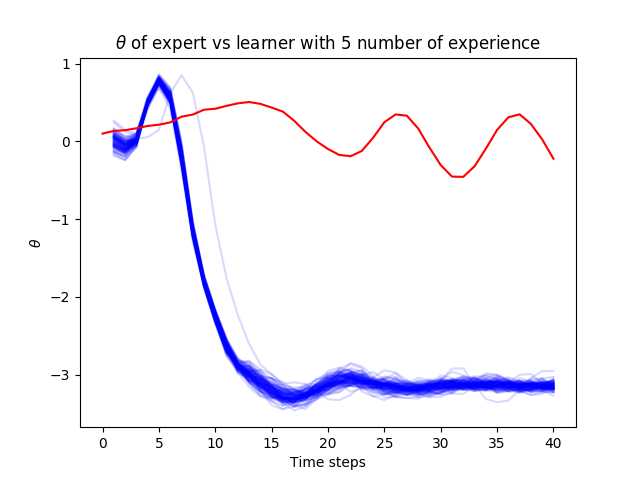
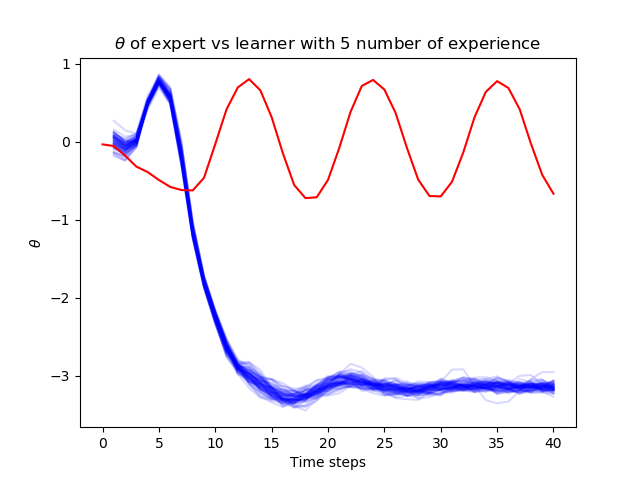
Attempt a using score funtion gradients

diff --git a/cartpole/learn.py b/cartpole/learn.py
@@ -1,8 +1,9 @@
 import numpy as np
 import torch
 import torch.distributions as trd
+import torch.nn.functional as F
 from cartpole.agent import CartPoleAgent
-from cartpole.utils import get_train_y, get_expert_data
+from cartpole.utils import get_training_data, get_expert_data, convert_to_aux_state
 from forwardmodel import ForwardModel
 from rbf_policy import RBFPolicy
 from discrimator import Discrimator
@@ -30,8 +31,9 @@ else:
 expert_samples = get_expert_data().to(device)
 
 state_dim = 4
+aux_state_dim = 5
 action_dim = 1
-policy = RBFPolicy(u_max=10, input_dim=state_dim, nbasis=10, device=device)
+policy = RBFPolicy(u_max=10, input_dim=aux_state_dim, nbasis=10, device=device)
 dt = 0.1
 time = 4
 T = int(np.ceil(4/dt))
@@ -42,21 +44,21 @@ agent = CartPoleAgent(dt=dt, time=time, policy=policy,
 with torch.no_grad():
     # Only when generating samples from GP posterior do we need the grad wrt policy parameter
     s_a_pairs, traj = agent.act()
-    init_y = get_train_y(traj)
+    init_x, init_y = get_training_data(s_a_pairs, traj)
 
-fm = ForwardModel(init_x=s_a_pairs.to(device),
-                  init_y=init_y.to(device), device=device)
+fm = ForwardModel(init_x=init_x.to(device),
+                  init_y=init_y.to(device), D=state_dim, S=aux_state_dim, F=action_dim, device=device)
 
 init_state_distn = trd.MultivariateNormal(loc=torch.zeros(
     state_dim), covariance_matrix=torch.diag(0.1**2 * torch.ones(state_dim)))
 
 disc = Discrimator(T, D=state_dim).to(device)
 
-policy_lr = 0.5
+policy_lr = 1e-2
 policy_optimizer = torch.optim.Adam(policy.parameters(), lr=policy_lr)
 disc_optimizer = torch.optim.Adam(disc.parameters())
 policy_lr_sch = torch.optim.lr_scheduler.ExponentialLR(
-    policy_optimizer, gamma=0.99)
+    policy_optimizer, gamma=1.0)
 
 # This is the number of samples from each source (expert/predicted) to be compared
 # against each other
@@ -80,13 +82,19 @@ for expr in range(1, num_of_experience+1):
         # Optimize policy for given forward model
 
         fm_samples = expert_samples.new_empty(N, T, state_dim)
-        x = init_state_distn.sample((N,)).to(device)
-        for t in range(T):
-            y = fm.predict(
-                torch.cat((x, policy(x).view(-1, action_dim)), dim=1)
-            )
-            x = x + y
-            fm_samples[:, t] = x
+        log_prob = fm_samples.new_zeros(N)
+        x0s = init_state_distn.sample((N,)).to(device)
+        for j, x in enumerate(x0s):
+            for t in range(T):
+                aux_x = convert_to_aux_state(x, state_dim)
+                x_t_u_t = torch.cat(
+                    (aux_x, policy(aux_x).view(-1, action_dim)), dim=1)
+                y, log_prob_t = fm.predict(x_t_u_t)
+                log_prob[j] += log_prob_t
+                fm.add_fantasy_data(x_t_u_t.detach(), y.detach())
+                x = x + y.view(state_dim)
+                fm_samples[j, t] = x
+            fm.clear_fantasy_data()
 
         # Train Discrimator
         disc_optimizer.zero_grad()
@@ -103,7 +111,8 @@ for expr in range(1, num_of_experience+1):
 
         # Optimise policy
         policy_optimizer.zero_grad()
-        policy_loss = bce_logit_loss(disc(fm_samples), real_target)
+        policy_loss = torch.mean(log_prob.view(-1, 1) * F.binary_cross_entropy_with_logits(
+            disc(fm_samples), real_target, reduction='none') - log_prob.view(-1, 1))
         policy_loss.backward()
         policy_optimizer.step()
         policy_losses.append(policy_loss.detach().item())
@@ -113,24 +122,29 @@ for expr in range(1, num_of_experience+1):
 
     # Get more experienial data
     with torch.no_grad():
-        new_x, traj = agent.act()
-        new_y = get_train_y(traj)
+        s_a_pairs, traj = agent.act()
+        new_x, new_y = get_training_data(s_a_pairs, traj)
 
     fm.update_data(new_x, new_y)
 
     # Plotting progress
-    fig, ax = plt.subplots()
+    fig, axs = plt.subplots(2, 2, figsize=(16, 10))
+    state_names = [r'$x$', r'$v$', r'$\dot{\theta}$', r'$\theta$']
+    for i, ax in enumerate(np.ravel(axs)):
+        # Plotting expert theta trajectory
+        for n in range(N):
+            ax.plot(np.arange(1, T+1), expert_samples.cpu().numpy()
+                    [n, :, i], alpha=0.15, color='blue')
+        ax.set_xlabel("Time steps")
+        ax.set_ylabel(state_names[i])
 
-    # Plotting expert theta trajectory
-    for i in range(N):
-        ax.plot(np.arange(1, T+1), expert_samples.cpu().numpy()[i, :, 3], alpha=0.15, color='blue')
-
-    ax.plot(np.arange(0, T+1), traj.cpu().numpy()[:, 3], color='red')
-
-    ax.set_xlabel("Time steps")
-    ax.set_ylabel(r'$\theta$')
-    ax.set_title(
-        r"$\theta$ of expert vs learner with {} number of experience".format(expr))
+    for roll in range(10):
+        with torch.no_grad():
+            _, traj = agent.act()
+        for i, ax in enumerate(np.ravel(axs)):
+            ax.plot(np.arange(0, T+1), traj.cpu().numpy()[:, i], color='red', alpha=0.2)
+        
+    fig.suptitle("State values of expert vs learner with {} number of experience".format(expr))
 
     fig.savefig(
         f'./cartpole/plots/expert_vs_learner_{expr}.png', format='png')

diff --git a/simulation.py b/simulation.py
@@ -4,6 +4,7 @@ from agent import Agent, SimplePolicy
 import numpy as np
 import torch
 import torch.distributions as trd
+import torch.nn.functional as F
 from matplotlib import pyplot as plt
 from discrimator import Discrimator
 
@@ -22,7 +23,7 @@ else:
     device = torch.device("cpu")
 
 
-def get_expert_trajectories(N, end=100, T=10, std_div=0.01):
+def get_expert_trajectories(N, end=10, T=10, std_div=0.01):
     """
     output: N x T+1
     """
@@ -57,6 +58,9 @@ def get_input_output(agent):
     return x, y
 
 
+state_dim = 1
+action_dim = 1
+
 # This is the number of observed samples from the expert
 expert_N = 5
 T = 10
@@ -73,7 +77,7 @@ expert_var = 1.0/(expert_N-1) * \
 expert_distn = trd.MultivariateNormal(expert_mu, torch.diag(expert_var))
 
 # policy = SimplePolicy(device)
-policy = RBFPolicy(u_max=20, input_dim=1, nbasis=5, device=device)
+policy = RBFPolicy(u_max=20, input_dim=state_dim, nbasis=5, device=device)
 dyn_std = 1e-2
 agent = Agent(policy, T, dyn_std=dyn_std, device=device)
 
@@ -83,16 +87,18 @@ with torch.no_grad():
 
 init_x, init_y = get_input_output(agent)
 
-fm = ForwardModel(init_x.to(device), init_y.to(device), device=device)
+fm = ForwardModel(init_x=init_x.to(device),
+                  init_y=init_y.to(device), D=state_dim, S=state_dim, F=action_dim, device=device)
 
 # fm.plot_fm_mean(T=T)
 
 # We are free to choose what the initial state distribution of the agent is so setting it to same as expert.
-init_state_distn = trd.Normal(expert_mu[0], torch.sqrt(expert_var[0]))
+init_state_distn = trd.MultivariateNormal(torch.tensor(
+    [expert_mu[0]]), torch.diag(torch.sqrt(expert_var[0]).view(state_dim)))
 
 disc = Discrimator(T).to(device)
 
-policy_lr = 0.5
+policy_lr = 1e-2
 policy_optimizer = torch.optim.Adam(policy.parameters(), lr=policy_lr)
 disc_optimizer = torch.optim.Adam(disc.parameters())
 policy_lr_sch = torch.optim.lr_scheduler.ExponentialLR(
@@ -100,13 +106,13 @@ policy_lr_sch = torch.optim.lr_scheduler.ExponentialLR(
 
 # This is the number of samples from each distribution to be compared
 # against each other
-N = 128
+N = 256
 
 bce_logit_loss = torch.nn.BCEWithLogitsLoss()
 real_target = torch.ones(N, 1, device=device)
 fake_target = torch.zeros(N, 1, device=device)
 
-num_of_experience = 2
+num_of_experience = 50
 disc_losses = []
 policy_losses = []
 policies = []
@@ -121,24 +127,19 @@ for expr in range(1, num_of_experience+1):
         expert_samples = expert_distn.sample((N,))[:, :T].to(device)
 
         fm_samples = torch.empty(N, T, device=device)
-        x = init_state_distn.sample((N,)).to(device)
-        # for t in range(T):
-        #     y = fm.predict(
-        #         torch.cat(
-        #             (x.view(-1, 1), policy(x).view(-1, 1)), dim=1)
-        #     )
-        #     x = x + y.view(N)
-        #     fm_samples[:, t] = x
+        x0s = init_state_distn.sample((N,)).to(device)
+        log_prob = fm_samples.new_zeros(N)
 
-        for x0 in x:
-            x_t = x0
+        for j, x in enumerate(x0s):
             for t in range(T):
                 x_t_u_t = torch.cat(
-                    (x_t.view(-1, 1), policy(x_t).view(-1, 1)), dim=1)
-                y = fm.predict(x_t_u_t)
+                    (x.view(-1, 1), policy(x).view(-1, 1)), dim=1)
+                y, log_prob_t = fm.predict(x_t_u_t)
+                log_prob[j] += log_prob_t
                 fm.add_fantasy_data(x_t_u_t.detach(), y.detach())
-                x_t = x_t + y
-                fm_samples[:, t] = x_t
+                x = x + y.view(state_dim)
+                fm_samples[j, t] = x
+            fm.clear_fantasy_data()
 
         # Train Discrimator
         disc_optimizer.zero_grad()
@@ -156,7 +157,8 @@ for expr in range(1, num_of_experience+1):
 
         # Optimise policy
         policy_optimizer.zero_grad()
-        policy_loss = bce_logit_loss(disc(fm_samples), real_target)
+        policy_loss = torch.mean(log_prob.view(-1, 1) * F.binary_cross_entropy_with_logits(
+            disc(fm_samples), real_target, reduction='none') - log_prob.view(-1, 1))
         policy_loss.backward()
         policy_optimizer.step()
         policy_losses.append(policy_loss.detach().item())

diff --git a/cartpole/utils.py b/cartpole/utils.py
@@ -7,33 +7,43 @@ def get_expert_data():
     """
     output: N X T x 4
     """
-    result = torch.empty(100, 40, 4)
+    result = torch.empty(64, 40, 4)
 
-    for i in range(100):
-      df = pd.read_csv(f'{os.path.dirname(__file__)}/expert_data/clockwise/data{i+1}.tsv', delimiter='\t')
+    for i in range(64):
+        df = pd.read_csv(
+            f'{os.path.dirname(__file__)}/expert_data/clockwise/data{i+1}.tsv', delimiter='\t')
 
-      result[i, :, :] = torch.from_numpy(df.loc[:, ['x', 'v', 'dtheta', 'theta']].to_numpy())
+        result[i, :, :] = torch.from_numpy(
+            df.loc[:, ['x', 'v', 'dtheta', 'theta']].to_numpy())
 
     return result
 
 
-def get_train_y(traj):
+def get_training_data(s_a_pairs, traj):
     """
+    s_a_pairs: T x D+F
     traj: T+1 x D
+    output x: T x D+1+F
     output y: T x D
     Converts a trajectory into the form to be used a target data for the GP,
     i.e into x_t+1 - x_t
     """
+    D = traj.shape[-1]
+
+    # replaces theta in the state with sin(theta) and cos(theta) to exploit
+    # the wrapping around of angles
+    x = torch.cat((convert_to_aux_state(
+        s_a_pairs[:, :D], D), s_a_pairs[:, D:]), dim=1)
+
     y = traj[1:] - traj[:-1]
-    return y
-
-# import matplotlib.pyplot as plt
-# import numpy as np
-
-# fig, ax = plt.subplots()
-
-# for i in range(59):
-#   ax.plot(np.arange(1, 41), get_expert_data().numpy()[i, :, 3], alpha=0.15, color='blue')
+    return x, y
 
 
-# plt.show()
+def convert_to_aux_state(state, D):
+    """
+    state: (N x) D
+    output: N x S
+    """
+    state = state.view(-1, D)
+
+    return torch.cat((state[:, :D-1], torch.sin(state[:, D-1:D]), torch.cos(state[:, D-1:D])), dim=1)

diff --git a/rbf_policy.py b/rbf_policy.py
@@ -16,14 +16,14 @@ class RBFPolicy:
 
     def __call__(self, x):
         """
-        x: (batch) x D
+        x: (batch) x S
         output: batch
         """
         x = x.view(-1, self.input_dim)
         batch = x.shape[0]
 
         # return torch.matmul(self.weights, torch.exp())
-        inv_gamma = torch.diag(1/(torch.exp(self.ln_vars)+1e-8))
+        inv_gamma = torch.diag(1/(torch.exp(self.ln_vars)+1e-12))
 
         bases = torch.empty(batch, self.nbasis, device=self.device)
         for i in range(self.nbasis):
@@ -31,7 +31,6 @@ class RBFPolicy:
             bases[:, i] = torch.diag(torch.chain_matmul(
                 x_minus_c_t, inv_gamma, torch.t(x_minus_c_t)))
 
-        # Wrapping the result in a 1D tensor of size 1
         return self.u_max * self.squash(torch.matmul(torch.exp(-0.5 * bases), self.weights))
 
     def squash(self, x):
@@ -42,3 +41,12 @@ class RBFPolicy:
 
     def parameters(self):
         return [self.weights, self.centers, self.ln_vars]
+
+# Testing Policy, TODO: Convert to test
+# policy = RBFPolicy(1, input_dim=1, nbasis=2, device=torch.device('cpu'))
+
+# print("Weights", policy.weights)
+# unsquashed = policy.weights[0] * torch.exp(-0.5 * policy.centers[0, 0]**2 * 1/torch.exp(policy.ln_vars)) + policy.weights[1] * torch.exp(-0.5 * policy.centers[0, 1]**2 * 1/torch.exp(policy.ln_vars))
+# print("Unsquashed", unsquashed)
+# print("Squashed", policy.squash(unsquashed))
+# print(policy(torch.zeros(5, 1)))

diff --git a/cartpole/agent.py b/cartpole/agent.py
@@ -2,6 +2,7 @@ import numpy as np
 from scipy.integrate import odeint
 import torch
 import torch.distributions as trd
+from cartpole.utils import convert_to_aux_state
 
 
 class CartPoleAgent():
@@ -33,7 +34,7 @@ class CartPoleAgent():
 
     def step(self):
         # Assuming the cart is stationary and the pole is vertical and also stationary
-        action = self.policy(self.state)
+        action = self.policy(convert_to_aux_state(self.state, D=self.state_dim))
 
         # Updating state action pair and adding measurement noise to state
         state_action = torch.cat(
